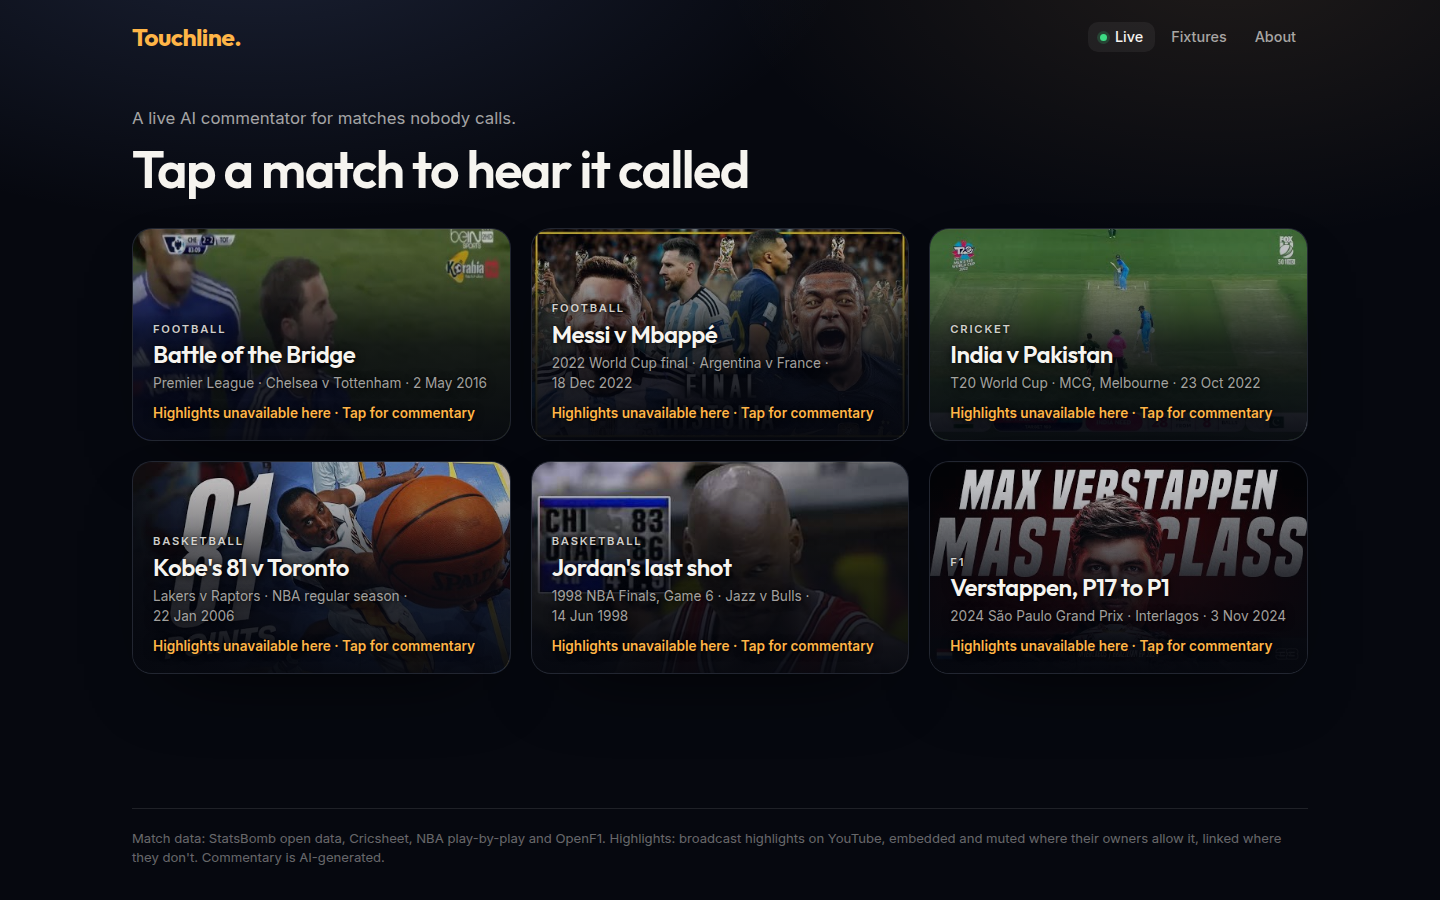
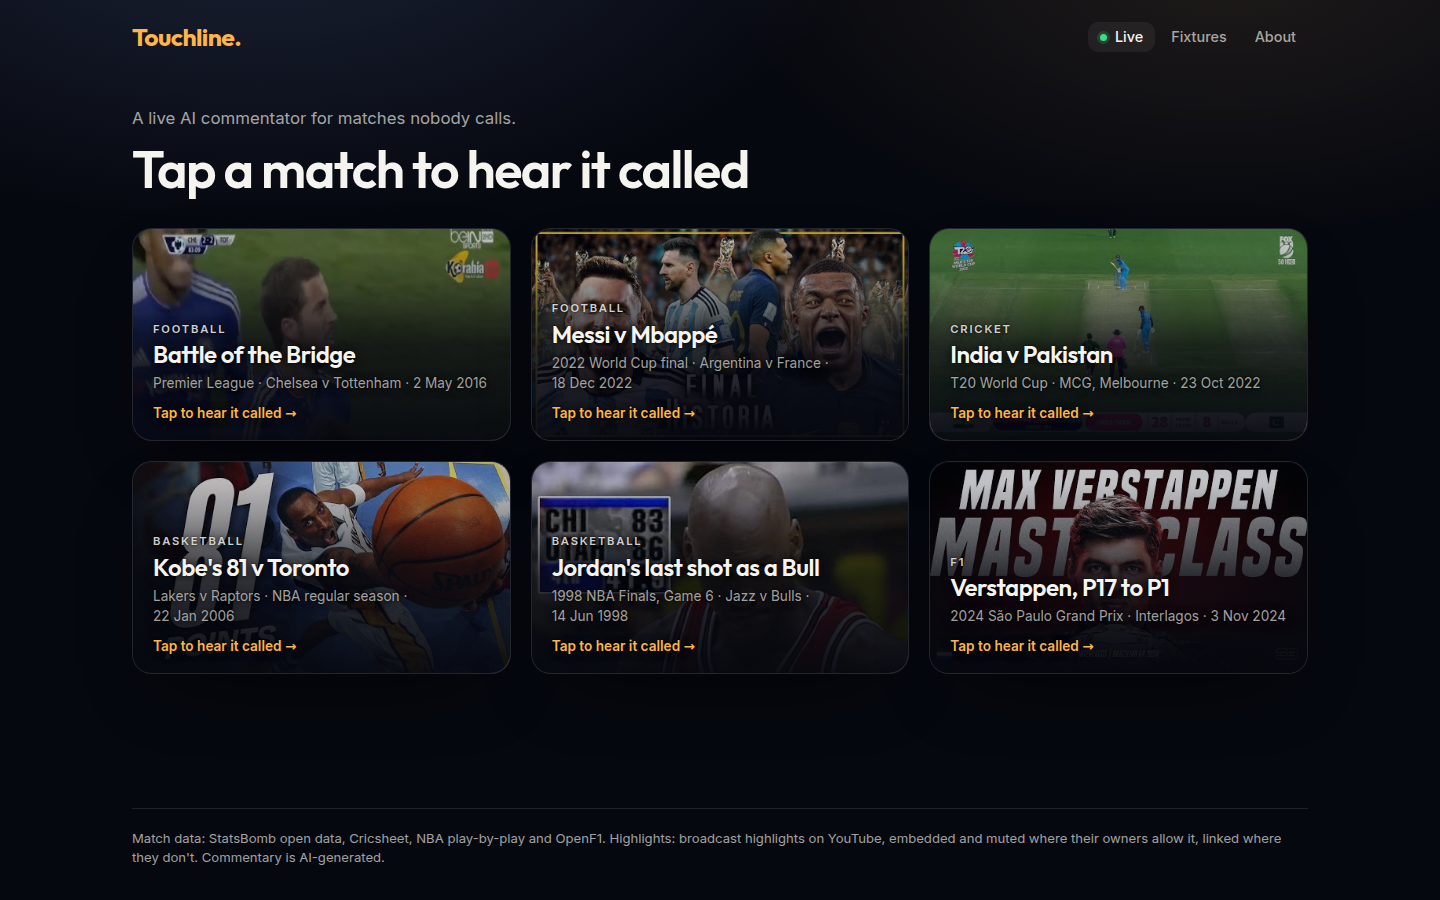
docs: wall.png and proof.png retaken from the live site after #158 (#164)
The new tile names and the Proof card's new labels; alt texts to match.

Req: A-9.1@1

diff --git a/README.md b/README.md
@@ -60,7 +60,7 @@ Built at Night Shift: Mubit Hackathon, London, 23 to 25 October 2026. Track: Own
 
 #### The six matches
 
-<img src="docs/img/wall.png" alt="The home page: the line A live AI commentator for matches nobody calls above the heading Pick a match, then tiles for Battle of the Bridge (Chelsea 2-2 Tottenham, 2016), Messi v Mbappé (the 2022 World Cup final) and India v Pakistan (T20 World Cup 2022), each with its sport, result, voice and a Start replay button; below them the tops of Kobe's 81 v Toronto, Jordan's last shot and Verstappen, P17 to P1." width="100%">
+<img src="docs/img/wall.png" alt="The home page, under the Touchline. logo and the Live, Fixtures and About links: the line A live AI commentator for matches nobody calls above the heading Tap a match to hear it called, then six tiles, each with its sport, title, competition and date and the link Tap to hear it called: Battle of the Bridge (Premier League, Chelsea v Tottenham, 2 May 2016), Messi v Mbappé (2022 World Cup final, Argentina v France, 18 Dec 2022), India v Pakistan (T20 World Cup, MCG, Melbourne, 23 Oct 2022), Kobe's 81 v Toronto (Lakers v Raptors, 22 Jan 2006), Jordan's last shot as a Bull (1998 NBA Finals, Game 6, Jazz v Bulls, 14 Jun 1998) and Verstappen, P17 to P1 (2024 São Paulo Grand Prix, Interlagos, 3 Nov 2024). Below them, the credits for the match data and the highlights." width="100%">
 
 Six famous matches in four sports, each replayed from real event data over its broadcast highlights
 and called by the same commentator with the same prompt. A line is never shown or spoken before its
@@ -143,7 +143,7 @@ every live page.
 
 #### The Proof panel
 
-<img src="docs/img/proof.png" alt="The Proof card: model first text word p50 0.53 s and p95 0.78 s, cost per line $0.0018, the lines count and 0 fixes; the adapter: Training, Mubit is building the adapter; adapter cost not measurable, because Mubit doesn't report it to the app; and a note on what first text word measures." width="50%">
+<img src="docs/img/proof.png" alt="The Proof card: first word median 0.54 s and p95 1.34 s, cost per line $0.0019, the count of lines across all matches, and 0 fixes; the adapter: Training, Mubit is building the adapter. Under it, a note: first word is the time from the moment to the first word of the model's text reply, measured through Mubit, not counting the rest of the line, speech synthesis or playback; the adapter's cost is not measurable, because Mubit doesn't report it to the app." width="50%">
 
 Live latency, cost per line, lines called, fixes and the adapter's state, computed from the store and
 the same numbers as `GET /stats` ([`web/src/components/ProofPanel.tsx`](web/src/components/ProofPanel.tsx),
